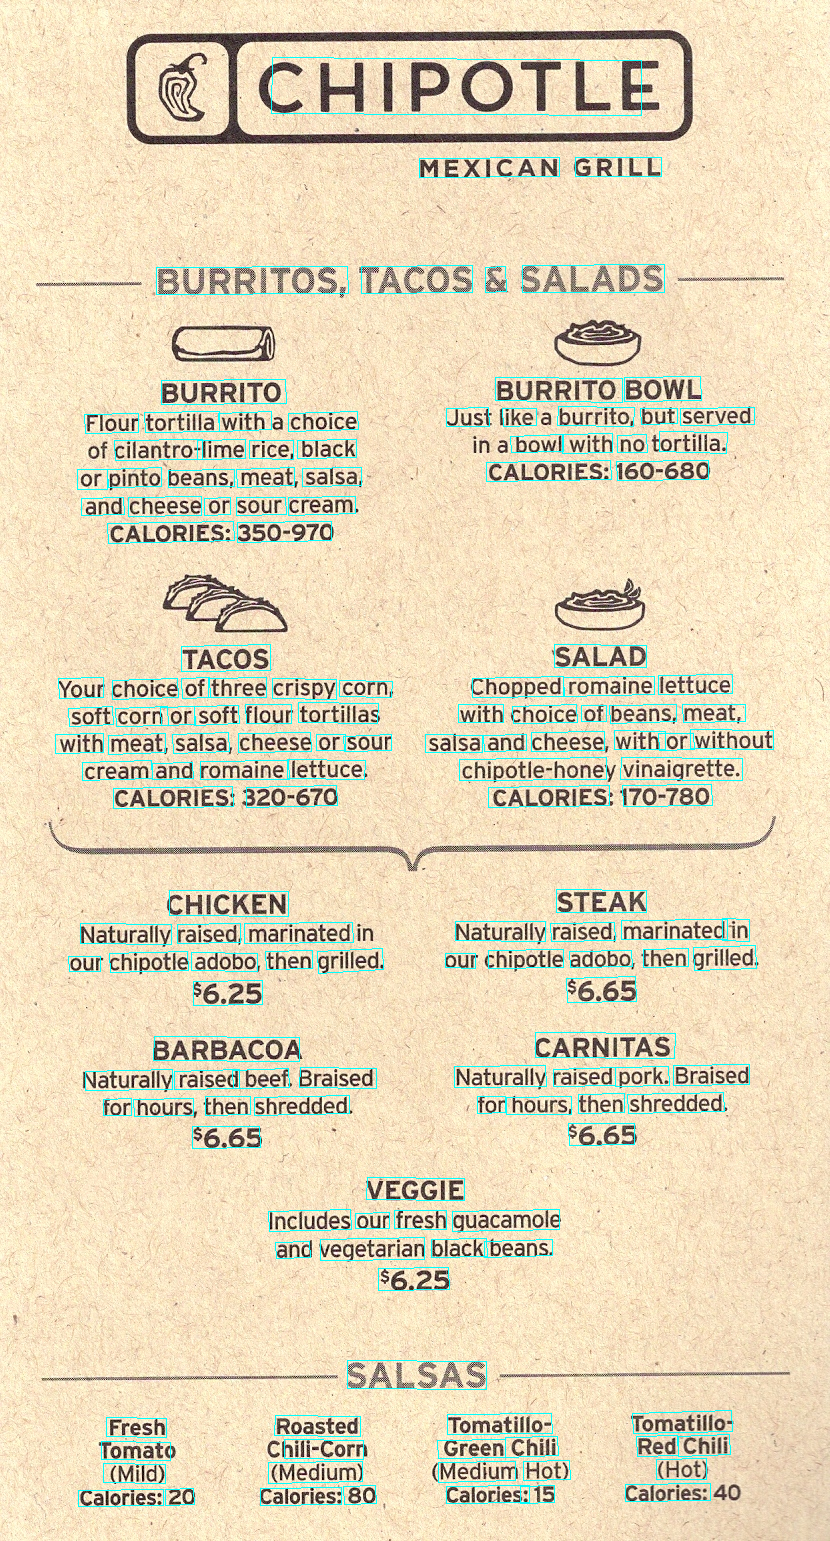
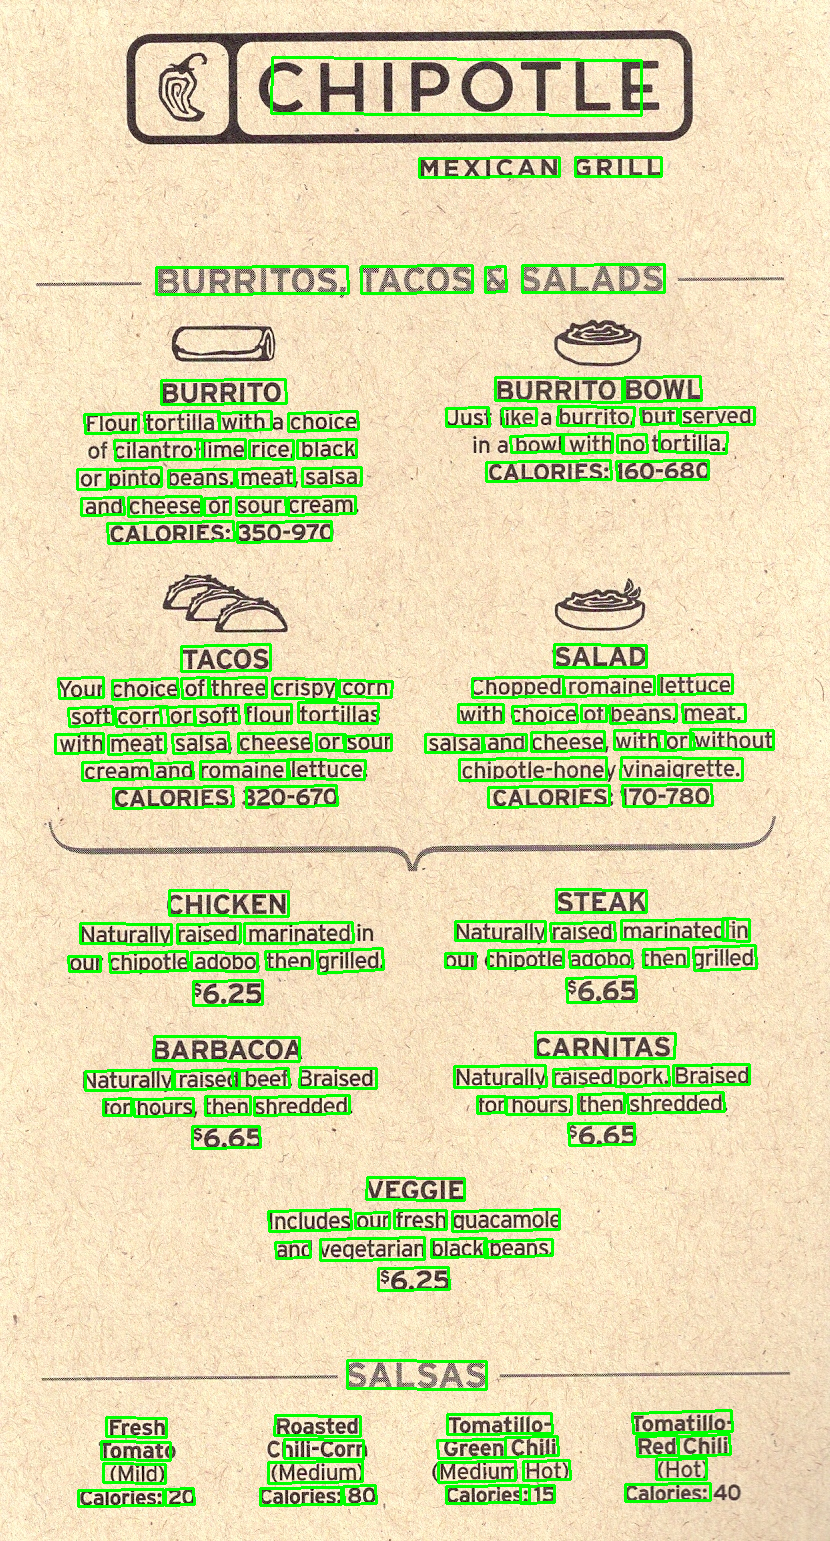
changed results

diff --git a/run_demo_server.py b/run_demo_server.py
@@ -167,7 +167,7 @@ def draw_illu(illu, rst):
         d = np.array([t['x0'], t['y0'], t['x1'], t['y1'], t['x2'],
                       t['y2'], t['x3'], t['y3']], dtype='int32')
         d = d.reshape(-1, 2)
-        cv2.polylines(illu, [d], isClosed=True, color=(255, 255, 0))
+        cv2.polylines(illu, [d], isClosed=True, color=(0, 255, 0), thickness=2)
     return illu
 
 
@@ -209,7 +209,7 @@ def get_images(menu_image_url: str, menu_image_json_path: str, headers: dict):
                 print(response.json())
     return menu_image_pairs
 
-checkpoint_path = './east_icdar2015_resnet_v1_50_rbox'
+checkpoint_path = './tmp/east_icdar2015_resnet_v1_50_rbox/'
 post_json_url = 'https://2vdqlmfjbk.execute-api.us-west-2.amazonaws.com/dev/menujson'
 
 @app.route('/', methods=['POST'])

diff --git a/readme.md b/readme.md
@@ -52,9 +52,10 @@ See the examples in training_samples/**
 
 ### Demo
 The demo portion was modified to be used for a test run of a serverless api.
-If you've downloaded the pre-trained model, you can setup a demo server by
+If you've downloaded the pre-trained model, you can setup a demo server.
+First enter the EAST directory then use the following:
 ```
-python3 run_demo_server.py --checkpoint_path /tmp/east_icdar2015_resnet_v1_50_rbox/
+python3 run_demo_server.py --checkpoint_path "./tmp/east_icdar2015_resnet_v1_50_rbox/"
 ```
 Then open http://localhost:8769 for the web demo. Notice that the URL will change after you submitted an image.
 Something like `?r=49647854-7ac2-11e7-8bb7-80000210fe80` appends and that makes the URL persistent.
